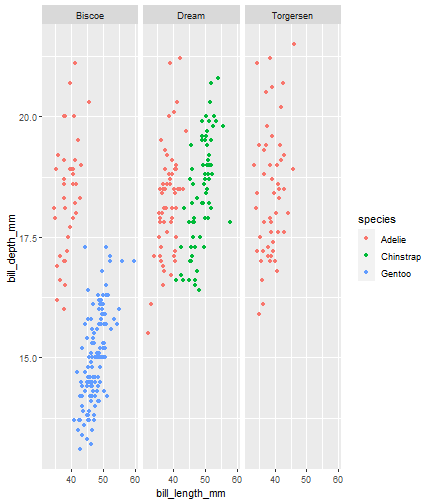
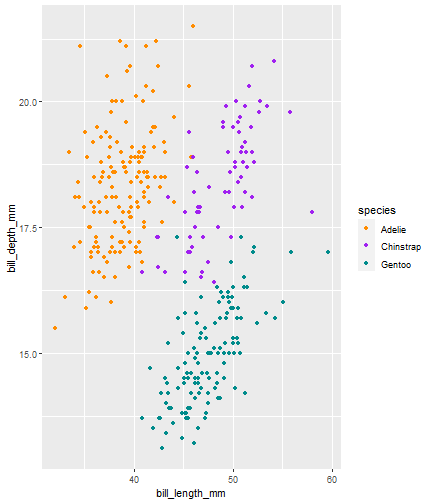
update

diff --git a/index.html b/index.html
@@ -168,7 +168,8 @@ penguins %&gt;%
   aes(y=bill_depth_mm) +
   geom_point() +
   aes(color = species) +
-* facet_wrap(~island)
+* scale_color_manual(values =
+*     c("darkorange","purple","cyan4"))
 ```
 ]
  
@@ -189,8 +190,9 @@ penguins %&gt;%
   aes(y=bill_depth_mm) +
   geom_point() +
   aes(color = species) +
-  facet_wrap(~island) +
-* theme_minimal()
+  scale_color_manual(values =
+      c("darkorange","purple","cyan4")) +
+* facet_wrap(~island)
 ```
 ]
  
@@ -211,11 +213,10 @@ penguins %&gt;%
   aes(y=bill_depth_mm) +
   geom_point() +
   aes(color = species) +
+  scale_color_manual(values =
+      c("darkorange","purple","cyan4")) +
   facet_wrap(~island) +
-  theme_minimal() +
-* labs(x="Bill Length (mm)",
-*      y="Bill Depth (mm)",
-*      title = "Palmer Penguins by Islands")
+* theme_minimal()
 ```
 ]
  
@@ -236,6 +237,35 @@ penguins %&gt;%
   aes(y=bill_depth_mm) +
   geom_point() +
   aes(color = species) +
+  scale_color_manual(values =
+      c("darkorange","purple","cyan4")) +
+  facet_wrap(~island) +
+  theme_minimal() +
+* labs(x="Bill Length (mm)",
+*      y="Bill Depth (mm)",
+*      title = "Palmer Penguins by Islands")
+```
+]
+ 
+.panel2-my_penguins-auto[
+![](index_files/figure-html/my_penguins_auto_10_output-1.png)&lt;!-- --&gt;
+]
+
+---
+count: false
+ 
+### Faceting the Palmer Penguins!
+.panel1-my_penguins-auto[
+
+```r
+penguins %&gt;%
+  ggplot() +
+  aes(x=bill_length_mm) +
+  aes(y=bill_depth_mm) +
+  geom_point() +
+  aes(color = species) +
+  scale_color_manual(values =
+      c("darkorange","purple","cyan4")) +
   facet_wrap(~island) +
   theme_minimal() +
   labs(x="Bill Length (mm)",
@@ -245,7 +275,7 @@ penguins %&gt;%
 ]
  
 .panel2-my_penguins-auto[
-![](index_files/figure-html/my_penguins_auto_10_output-1.png)&lt;!-- --&gt;
+![](index_files/figure-html/my_penguins_auto_11_output-1.png)&lt;!-- --&gt;
 ]
 
 &lt;style&gt;
